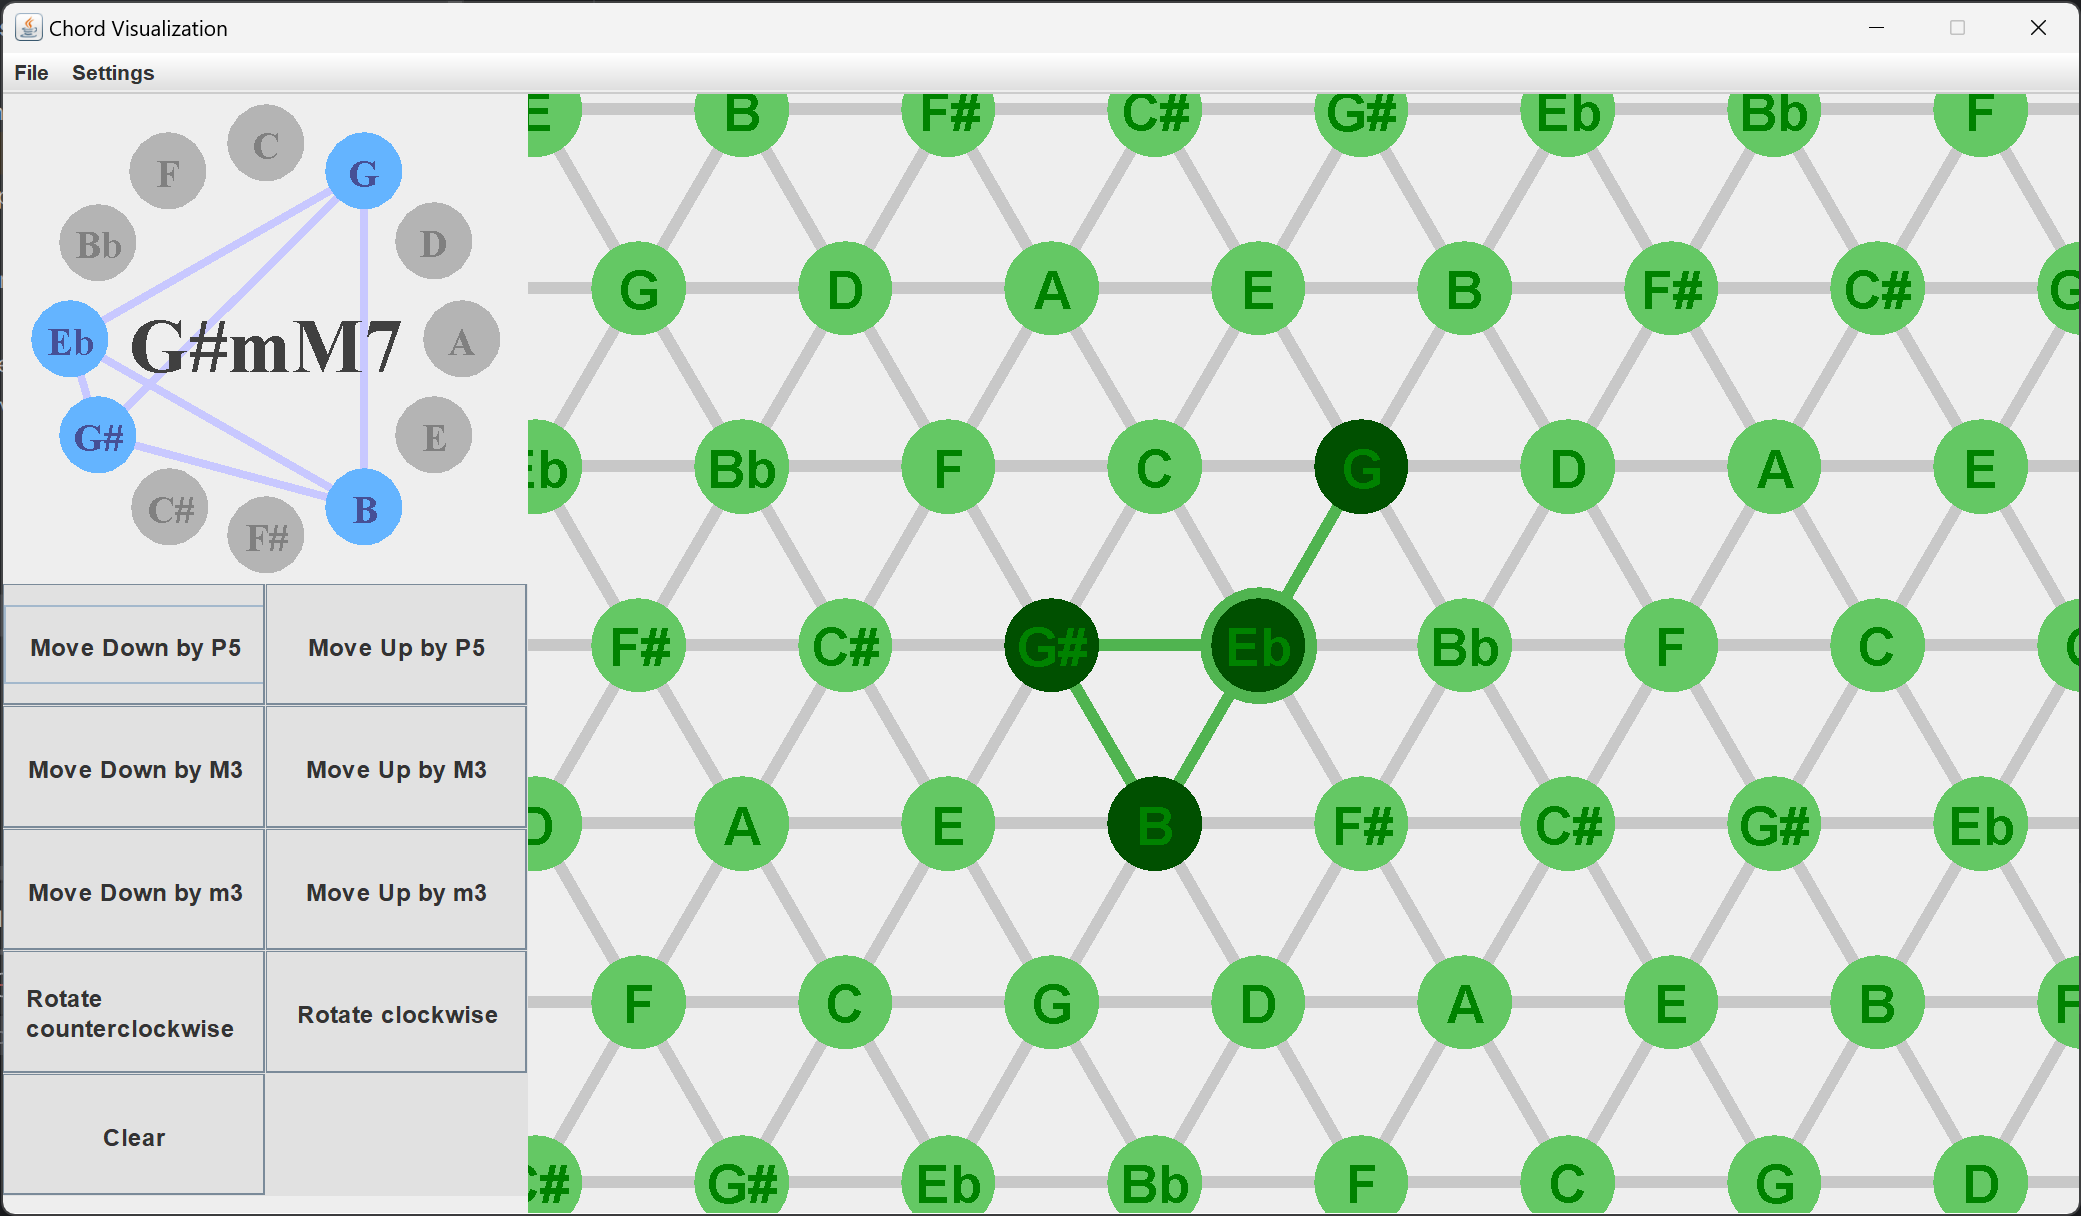
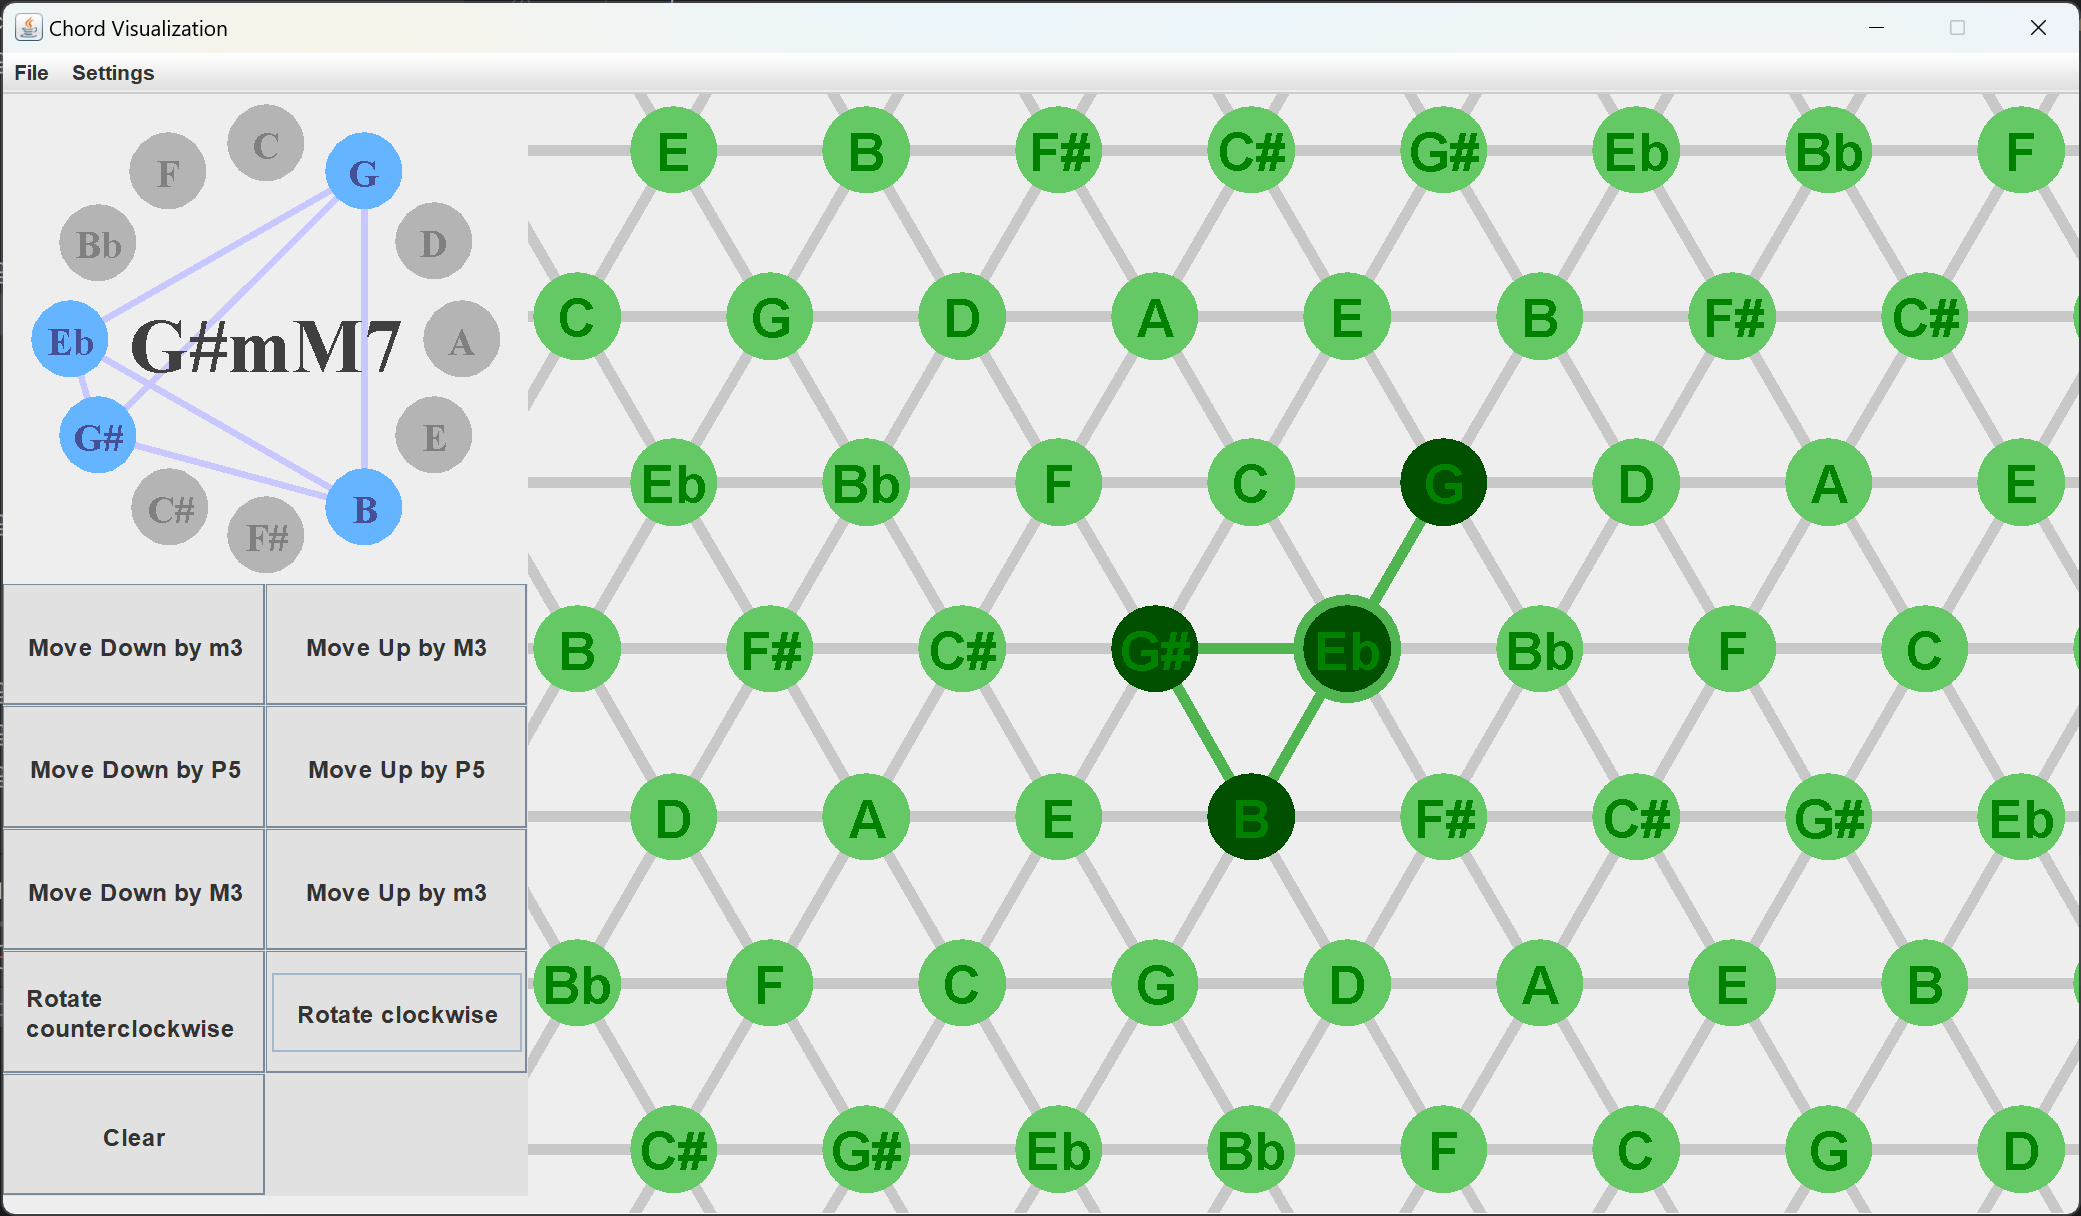
Add rotation operation to Dual-Tonnetz
- Fixes bug
- Adds rotation operation to Dual-Tonnetz

diff --git a/src/cdvis/component/DualTonnetz.java b/src/cdvis/component/DualTonnetz.java
@@ -19,6 +19,8 @@ public class DualTonnetz extends Graph implements MusicalNet{
 	private final Set<Integer> pressedKey;
 	private int netX = -100, netY = 60;
 
+	private int rotationCenter = 42;
+
 
 	public DualTonnetz() {
 		pressedKey = new HashSet<>();
@@ -67,10 +69,13 @@ public class DualTonnetz extends Graph implements MusicalNet{
 		}
 		for (int note = 0; note < chordRange-4; note++){
 			this.addEdge(note, note + 4 + chordRange);
-			this.addEdge(note, note + chordRange);
+		}
+		for (int note = 0; note < chordRange-3; note++) {
 			this.addEdge(note + chordRange, note + 3);
 		}
-		this.addEdge(chordRange-4 + chordRange, chordRange-1);
+		for (int note = 0; note < chordRange; note++) {
+			this.addEdge(note, note + chordRange);
+		}
 	}
 
     public void plot(Graphics2D g2d) {
@@ -112,6 +117,11 @@ public class DualTonnetz extends Graph implements MusicalNet{
 
     public void plotNodes(Graphics2D g2d) {
     	int buttonSize = Config.BUTTON_SIZE *3/4;
+
+		if (rotationCenter > -1) {
+			int centerSize = buttonSize * 5/4;
+			PlotUtil.drawBall(g2d, new Color(170,170,170), chordX[rotationCenter], chordY[rotationCenter], centerSize);
+		}
 
     	Color unpressedMajColor = new Color(200,140,140);
     	Color pressedMajColor = new Color(120,20,20);
@@ -160,30 +170,10 @@ public class DualTonnetz extends Graph implements MusicalNet{
 
     public void moveNotes(int command) {
     	LinkedList<Integer> newKey = new LinkedList<>();
-		int sign = (command > 1) ? 1:-1;
-		switch (Math.abs(command)) {
-			case 3:
-				for (int i : pressedChord) {
-					if (sign*i < sign*chordRange) newKey.add(i+chordRange*sign);
-					else newKey.add(i+command-chordRange*sign);
-				}
-				break;
-			case 4:
-				for (int i : pressedChord) {
-					if (sign*i < sign*chordRange) newKey.add(i+command+chordRange*sign);
-					else newKey.add(i-chordRange*sign);
-				}
-				break;
-			case 7:
-				for (int i : pressedChord) {
-					if (i < chordRange && sign > 0) newKey.add(i+4+chordRange);
-					if (i < chordRange && sign < 0) newKey.add(i-3+chordRange);
-					if (i > chordRange && sign > 0) newKey.add(i+3-chordRange);
-					if (i > chordRange && sign < 0) newKey.add(i-4-chordRange);
-				}
-				break;
-			default: break;
+		for (int i : pressedChord) {
+			newKey.add(MusicUtil.dualnetMoveNote(i,chordRange,command));
 		}
+		rotationCenter = MusicUtil.dualnetMoveNote(rotationCenter,chordRange,command);
 
     	pressedChord.clear();
 		pressedChord.addAll(newKey);
@@ -192,6 +182,19 @@ public class DualTonnetz extends Graph implements MusicalNet{
 
 
     public void rotateNotes(int direction) {
+		if (rotationCenter == -1) return;
+
+		LinkedList<Integer> newKey = new LinkedList<>();
+		int note;
+		int[] coef;
+		for (int i : pressedChord) {
+			coef = dualAlgebraicBFS(rotationCenter, i, chordRange);
+			note = MusicUtil.dualnetRotation(i, rotationCenter, coef, chordRange, direction);
+			newKey.add(note);
+		}
+		pressedChord.clear();
+		pressedChord.addAll(newKey);
+		updatePressedKey();
     }
 
 	public Set<Integer> getPressedKey() {
@@ -205,6 +208,14 @@ public class DualTonnetz extends Graph implements MusicalNet{
 	}
 
 	public void setRotationCenter(int x, int y) {
+		int buttonSize = Config.BUTTON_SIZE*3/4;
+		for (int i = 0; i < chordRange*2; i++) {
+			if (Math.abs(x-chordX[i]) < buttonSize/2 && Math.abs(y-chordY[i]) < buttonSize/2) {
+				if (rotationCenter == i) rotationCenter = -1;
+				else rotationCenter = i;
+				return;
+			}
+		}
 	}
 
 	private void updatePressedKey() {

diff --git a/src/cdvis/component/Graph.java b/src/cdvis/component/Graph.java
@@ -1,11 +1,10 @@
 package cdvis.component;
-import java.util.Arrays;
 import java.util.HashMap;
 import java.util.LinkedList;
 import java.util.Queue;
 
 public class Graph {
-    private HashMap<Integer, LinkedList<Integer>> adjacency;
+    private final HashMap<Integer, LinkedList<Integer>> adjacency;
 
     public Graph() {
         adjacency = new HashMap<>();
@@ -35,14 +34,11 @@ public class Graph {
     public int[] algebraicBFS(int source, int end) {
     	int[] parent = new int[this.vertexNumber()];
     	boolean[] visited = new boolean[this.vertexNumber()];
-    	int[] distance = new int[this.vertexNumber()];
-    	Arrays.fill(distance, 1000);
     	
     	Queue<Integer> queue = new LinkedList<>();
     	queue.add(source);
     	parent[source] = source;
     	visited[source] = true;
-    	distance[source] = 0;
     	
     	while (!queue.isEmpty()) {
     		int current = queue.poll();
@@ -51,7 +47,6 @@ public class Graph {
     			if (!visited[neighbor]) {
     				visited[neighbor] = true;
     				queue.add(neighbor);
-    				distance[neighbor] = distance[current] + 1;
     				parent[neighbor] = current;
     			}
     		}
@@ -79,10 +74,46 @@ public class Graph {
     	return coef;
     }
 
-    public void print() {
-        for (int i : this.getAllVertices()) {
-            System.out.println(adjacency.get(i));
-        }
-    }
+	public int[] dualAlgebraicBFS(int source, int end, int range) {
+		int[] parent = new int[this.vertexNumber()];
+		boolean[] visited = new boolean[this.vertexNumber()];
+
+		Queue<Integer> queue = new LinkedList<>();
+		queue.add(source);
+		parent[source] = source;
+		visited[source] = true;
+
+		while (!queue.isEmpty()) {
+			int current = queue.poll();
+			LinkedList<Integer> randomNeighbors = new LinkedList<>(this.getNeighbors(current));
+			for (int neighbor:randomNeighbors) {
+				if (!visited[neighbor]) {
+					visited[neighbor] = true;
+					queue.add(neighbor);
+					parent[neighbor] = current;
+				}
+			}
+		}
+
+		int[] coef = {0,0,0};
+		int current = end;
+		int difference;
+		while (true) {
+			if (current == parent[current]) break;
+			difference = current%range - parent[current]%range;
+			if (difference == 3 || difference == -3) {
+				coef[0] += difference / 3;
+			}
+			else if (difference == 4 || difference == -4) {
+				coef[1] += difference / 4;
+			}
+			else if (difference == 0) {
+				coef[2] += (current > parent[current]) ? 1:-1;
+			}
+
+			current = parent[current];
+		}
+		return coef;
+	}
     
 }

diff --git a/src/cdvis/util/MusicUtil.java b/src/cdvis/util/MusicUtil.java
@@ -36,7 +36,39 @@ public class MusicUtil {
 			result = 7 * coef[0] - 3 * coef[1] + 4 * coef[2];
 		}
 		return result;
-		
+	}
+
+	public static int dualnetMoveNote(int note, int chordRange, int command) {
+		int sign = (command > 1) ? 1 : -1;
+		switch (Math.abs(command)) {
+			case 3:
+				if (note < chordRange && sign > 0) return note + chordRange;
+				if (note < chordRange) return (note + chordRange - 3)%chordRange + chordRange;
+				if (sign > 0) return (note + 3)%chordRange;
+				return note - chordRange;
+			case 4:
+				if (note < chordRange && sign > 0) return (note + 4)%chordRange + chordRange;
+				if (note < chordRange) return note + chordRange;
+				if (sign > 0) return note - chordRange;
+				return (note + chordRange - 4)%chordRange;
+			case 7:
+				if (note < chordRange && sign > 0) return (note + 4)%chordRange + chordRange;
+				if (note < chordRange) return (note + chordRange - 3)%chordRange + chordRange;
+				if (sign > 0) return (note + 3)%chordRange;
+				return (note - 4)%chordRange;
+			default:
+				return note;
+		}
+	}
+
+	public static int dualnetRotation(int note, int center, int[] coef, int chordRange,  int direction) {
+		int path;
+		if (direction == -1) {
+			path = - 4 * coef[0] - 3 * coef[2];
+		} else {
+			path =  - 3 * coef[1] + 4 * coef[2];
+		}
+		return (center + chordRange + path)%chordRange + (note/chordRange)*chordRange;
 	}
 	
 	public static String recognizeChord(Set<Integer> pressedKey) {

diff --git a/src/cdvis/app/ControlPanel.java b/src/cdvis/app/ControlPanel.java
@@ -41,7 +41,7 @@ public class ControlPanel extends JPanel{
 
 	private void changeButtonDescription(String[] description) {
 		for (int i = 0; i <= 7; i++) {
-			buttons[i].setText(description[i]);
+			buttons[i].setText("<html><div style='padding: 10px;'>" + description[i] + "</div><html>");
 		}
 	}
 
@@ -57,7 +57,7 @@ public class ControlPanel extends JPanel{
 			case 1:
 				String[] descrip1 = {
 						"To Upper-left" , "To Upper-right", "To the Left", "To the Right",
-						"To Lower-left", "To Lower-right", "-", "-"
+						"To Lower-left", "To Lower-right", "Rotate counterclockwise", "Rotate clockwise"
 				};
 				changeButtonDescription(descrip1);
 		}

diff --git a/src/cdvis/component/ChordLabel.java b/src/cdvis/component/ChordLabel.java
@@ -61,7 +61,7 @@ public class ChordLabel extends JLabel {
 
     private void plotLines(Graphics2D g2d) {
         g2d.setColor(new Color(200, 200, 255));
-        g2d.setStroke(new BasicStroke((float) diameter /50));
+        g2d.setStroke(new BasicStroke((float) diameter /60));
         for (int firstNote = 0; firstNote < 11; firstNote++) {
             if (!net.getPressedPitchClasses().contains(firstNote)) continue;
             for (int secondNote = firstNote+1; secondNote < 12; secondNote++) {

diff --git a/src/cdvis/sound/NotePlayer.java b/src/cdvis/sound/NotePlayer.java
@@ -25,7 +25,7 @@ public class NotePlayer {
 	public void setNotes() {
 		channel.allNotesOff();
 		for (int i : pressedKey) {
-			channel.noteOn(i+12, 100);
+			channel.noteOn(i+24, 100);
 		}
 	}
 

diff --git a/README.md b/README.md
@@ -8,13 +8,13 @@ As of now, this is a GUI that allows user to create, play, and apply operations 
 
 There are three forms of visualization in this program.
 
-- The panel on the right-hand side shows a Tonnetz structure. In this structure, two notes are connected when they form m3, M3 or P5 interval. At current stage all nodes in this panel represent pitches rather than pitch classes. Visit https://en.wikipedia.org/wiki/Tonnetz to learn more.
+- **Tonnetz:** The panel on the right-hand side shows a Tonnetz structure. In this structure, two notes are connected when they form m3, M3 or P5 interval. At current stage all nodes in this panel represent pitches rather than pitch classes. Visit https://en.wikipedia.org/wiki/Tonnetz to learn more.
 
-- The panel on the left-hand side shows a circle of fifths. Each node here represents a pitch class, and forms P5 with any of their neighbors. Learn more on https://en.wikipedia.org/wiki/Circle_of_fifths. The left-hand-side panel also shows the structure of current chord. 
+- **Circle of fifths:** The panel on the left-hand side shows a circle of fifths. Each node here represents a pitch class, and forms P5 with any of their neighbors. Learn more on https://en.wikipedia.org/wiki/Circle_of_fifths. The panel also shows the structure of current chord. 
 
 ![App](examples/App.png)
 
-- By changing the settings you can also view the dual graph of the Tonnetz, where red and blue nodes represents major and minor triads respectively. Two triads are connected when they share 2 common notes.
+- **Dual-Tonnetz:** Use the settings menu to switch to the dual graph of the Tonnetz, where red and blue nodes represents major and minor triads respectively. Two triads are connected when they share 2 common notes.
 
 ![DualNet](examples/DualNet.png)
 
@@ -24,8 +24,8 @@ There are three forms of visualization in this program.
 
 Left click on notes to press. Use the control panel to apply operations to the pressed notes. These operations are:
 
-- Moving along edges. On Tonnetz this means parallel movement by P5, M3 or m3 interval. On Dual-Tonnetz things are much more interesting since chord structures change as they travel. 
-- Rotation. All notes will rotate by 60 degree according to rotation center after this operation. Right click to set rotation center. Since Tonnetz is topologically a torus, this operation is only well-defined locally. It can behave in unexpected way when your note group is too large or when it touches right or left boundary. This operation is currently not available for dual-Tonnetz.
+- **Moving along edges:** On Tonnetz this means parallel movement by P5, M3 or m3 interval. On Dual-Tonnetz things are more interesting since chord structures change as they travel. 
+- **Rotation:** Rotate all notes according to the rotation center. Right click to set rotation center. Our current Tonnetz is topologically a cylinder, so this operation is only well-defined locally and behaves in unexpected ways when the note group is too large, or when it touches right/left boundary of the Tonnetz. You can see the note group "converging" into a local chart of cylinder as you apply rotations, which I personally find very interesting.
 
 You can also change instrument in the settings menu. All instruments in general midi are supported.
 
